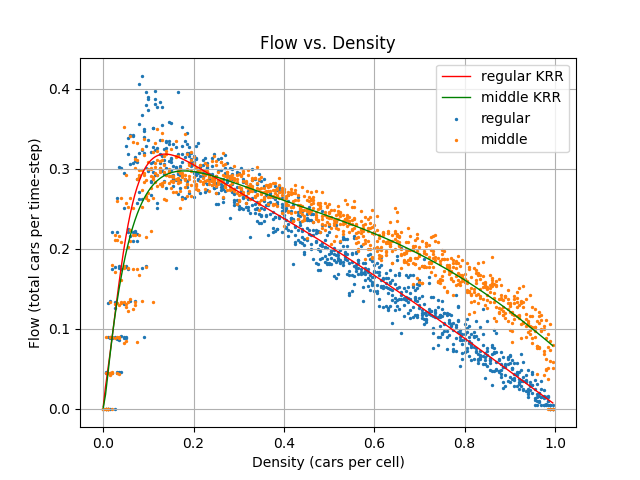
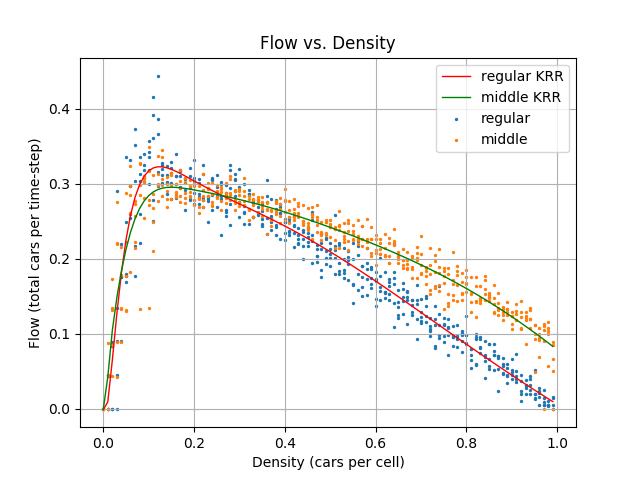
thought I could make it go fast, but for some reason i cant

diff --git a/example.py b/example.py
@@ -1,10 +1,12 @@
 from trafficsimulation import TrafficSimulation
+import subprocess
 import time
 import numpy as np
 import matplotlib.pyplot as plt
 import pandas as pd
 from sklearn.model_selection import GridSearchCV
 from sklearn.kernel_ridge import KernelRidge
+from joblib import Parallel, delayed
 
 def get_flow_array(densities, iterations, strategy):
     avg_flow_arr = []
@@ -19,19 +21,31 @@ def get_flow_array(densities, iterations, strategy):
         avg_flow_arr.append(avg_flow)
     return avg_flow_arr
 
-dens = np.repeat(np.arange(0.0,1.0,.005),5)
+dens = np.repeat(np.arange(0.0,1.0,.03),5)
 its = 200
 strategies = ['regular','middle']
 train_size = len(dens)
 for strategy in strategies:
-    flows = get_flow_array(dens, its, strategy)
+    strat_to_be_zipped = ['strategy']*len(dens)
+    its_to_be_zipped = [its]*len(dens)
+    arg_instances = zip(dens, its_to_be_zipped, strat_to_be_zipped)
+    start = time.time()
+    flows = Parallel(n_jobs=4, backend="multiprocessing")(delayed(get_flow_array)(densities = dens[i:i+10], iterations = its, strategy = strategy) for i in range(0,len(dens),10))
+    elapsed = time.time() - start
     flows = np.array(flows)
+    subprocess.run(['say','Hello! %s Strategy is done parallelized in %d seconds'%(strategy,elapsed)])
+    flows.flatten()
+    start2 = time.time()
+    flows = get_flow_array(dens, its, strategy)
+    elapsed2 = time.time() - start
+    flows = np.array(flows)
+    subprocess.run(['say','Hello! %s Strategy is done regularly in %d seconds'%(strategy,elapsed)])
     plt.scatter(dens,flows,s=2,label='%s'%strategy)
     kr = GridSearchCV(KernelRidge(kernel='chi2', gamma=0.1), cv=5,
                   param_grid={"alpha": [1e0, 0.1, 1e-2, 1e-3],
                               "gamma": np.logspace(-2, 2, 5)})
     dens = dens.reshape(len(dens),1)
-    flows = flows.reshape(len(flows),1)
+    flows = flows.reshape(len(dens),1)
     kr.fit(dens[:train_size], flows[:train_size])
     y_kr = kr.predict(dens)
     color = 'r' if strategy == 'regular' else 'g'
